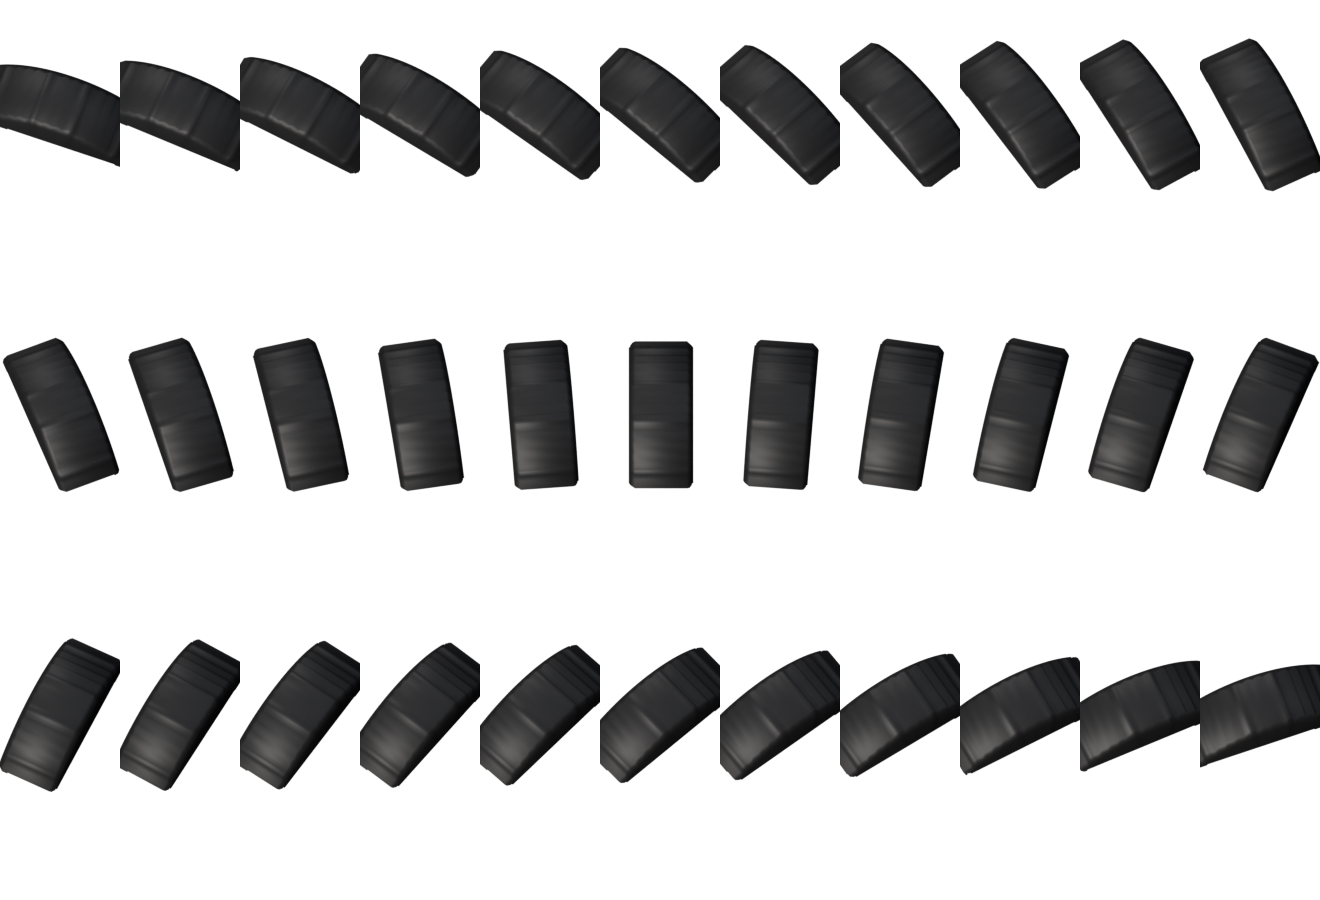
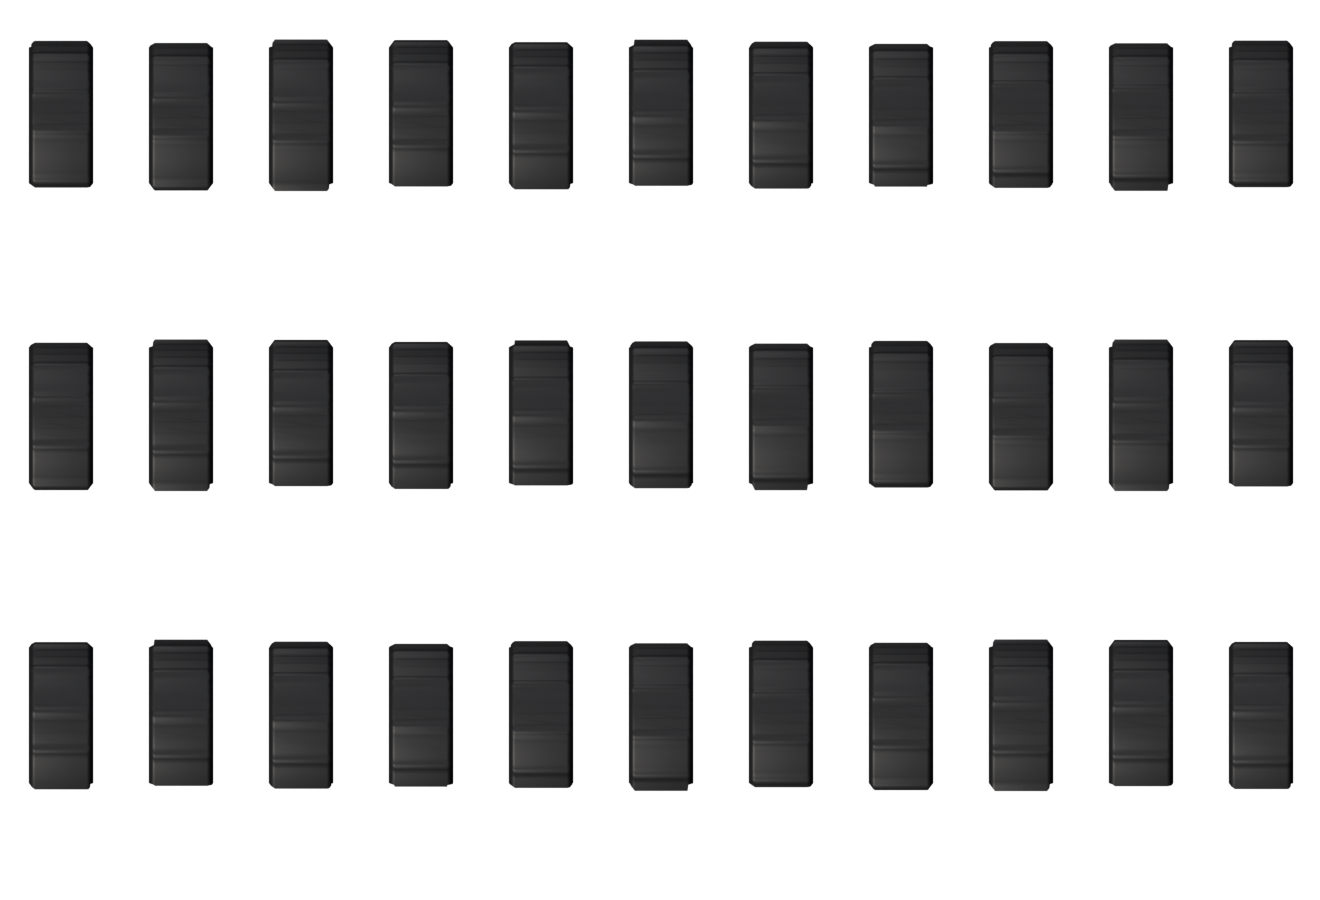
AT20V 1.0.5: the control wheel turns on its axle and springs back
The user reported that the control wheel "turns wrong and does not come back".
- The wheel's 33 frames were rendered with the spin applied in XYZ order after
  laying the lathe on its side, so the whole disc tipped sideways instead of
  rolling on its axle. scene.py now uses ZYX order (spin about the wheel's own
  axis first) and a ±40° travel: 2.5° per frame, under half a rib (6.4°), so the
  ribs never appear to roll backwards. New --wheel-only option renders just the
  wheel; only wheel.png and its range in ui.json change.
- Releasing the wheel now returns it to the centre in ~200 ms, like a pitch bend
  wheel; holding Alt on release leaves it where it is (manual EN/ES updated,
  including the drone recipe through VCA INITIAL GAIN).

Verified: athosttest on AT20V and AT20V FX (macOS and Windows) unchanged: the
only FAIL is the intentional Endless Drift drone; pluginval strictness 10
SUCCESS on macOS.

Development commit: 2fda1d9edd6cd4ea9f08568dafeecc0de907f77b

diff --git a/plugins/at20v/tools/blender/scene.py b/plugins/at20v/tools/blender/scene.py
@@ -23,6 +23,7 @@ OUT = os.path.abspath(arg("--out", "out"))
 MODE = arg("--mode", "all")
 SAMPLES = int(arg("--samples", "256"))
 FRAMES = int(arg("--frames", "128"))
+WHEEL_ONLY = arg("--wheel-only", "0") == "1"      # modo keys: sólo los cuadros de la rueda (out/keys/wheel_*.png)
 os.makedirs(OUT, exist_ok=True)
 
 THETA = math.radians(12.0)
@@ -547,7 +548,10 @@ def build_keyboard(pressed=False):
     wheel = mesh_obj("Wheel", lathe([(0.0, -16.0), (56.0, -16.0), (59.0, -13.0), (59.0, 13.0), (56.0, 16.0), (0.0, 16.0)], 128,
                                     radial=lambda t, r, z: r - (2.2 if (abs(z) < 13.5 and math.cos(t * 56) > 0.2) else 0.0)),
                      principled("WheelRubber", (0.022, 0.022, 0.024), 0.55))
-    wheel.rotation_euler = Euler((0, math.radians(90), 0), "XYZ")
+    # El torno deja el eje de la rueda en Z; se acuesta sobre U con Y = 90°. En orden ZYX el giro en Z se aplica
+    # primero: la rueda gira sobre su propio eje (en XYZ, girar en X la volcaba de costado).
+    wheel.rotation_mode = "ZYX"
+    wheel.rotation_euler = Euler((0, math.radians(90), 0), "ZYX")
     wheel.location = P(40, 149, 26 + 18 - 59)
     ring = mesh_obj("MswRing", lathe([(19.0, 26.0), (19.0, 29.0), (16.5, 30.0), (0.0, 30.0)], 64), MAT["nickel"])
     ring.location = P(40, 260, 0)
@@ -579,7 +583,7 @@ def mode_keys():
     os.makedirs(os.path.join(OUT, "keys"), exist_ok=True)
     meta = {}
     hulls = {}
-    for pressed in (False, True):
+    for pressed in ((False,) if WHEEL_ONLY else (False, True)):
         reset_scene(); materials(); add_lights()
         keys, wheel, cap = build_keyboard(pressed)
         _, w_u, h_u, rx, ry = key_frame()
@@ -595,7 +599,7 @@ def mode_keys():
                 c = world_to_camera_view(sc, cam, o.matrix_world @ v.co)
                 pts.append((round(c.x * rx, 1), round((1.0 - c.y) * ry, 1)))
             hulls.setdefault(n, {"black": isb, "pts": []})["pts"] += pts
-        render_to(os.path.join(OUT, "keys", "keys_down.png" if pressed else "keys_up.png"))
+        if not WHEEL_ONLY: render_to(os.path.join(OUT, "keys", "keys_down.png" if pressed else "keys_up.png"))
         if not pressed:
             meta.update(width=rx, height=ry, theta=math.degrees(KEY_THETA))
             # Rueda: filmstrip con todo lo demás como holdout.
@@ -614,12 +618,14 @@ def mode_keys():
             base_rot = wheel.rotation_euler.copy()
             # Recorte alrededor de la rueda con una cámara auxiliar del mismo encuadre: se renderiza
             # el cuadro completo y se recorta después (más simple y exacto).
-            meta["wheel"] = dict(cx=round(wc.x * rx, 1), cy=round((1.0 - wc.y) * ry, 1), frames=frames, range=70.0)
+            meta["wheel"] = dict(cx=round(wc.x * rx, 1), cy=round((1.0 - wc.y) * ry, 1), frames=frames, range=40.0)
             for f in range(frames):
-                a = -70.0 + 140.0 * f / (frames - 1)
-                wheel.rotation_euler = Euler((math.radians(a), math.radians(90), 0), "XYZ")
+                # ±40°: 2,5° por cuadro, menos de media estría (56 estrías = 6,4°), así el giro no se ve al revés.
+                a = -40.0 + 80.0 * f / (frames - 1)
+                wheel.rotation_euler = Euler((0, math.radians(90), math.radians(a)), "ZYX")
                 render_to(os.path.join(OUT, "keys", f"wheel_{f:03d}.png"))
             wheel.rotation_euler = base_rot
+            if WHEEL_ONLY: return
             # Pulsador apretado.
             for o in bpy.data.objects:
                 if o.type == "MESH": o.is_holdout = o.name not in ("MswCap",)

diff --git a/plugins/at20v/Source/ui/KeyboardView.h b/plugins/at20v/Source/ui/KeyboardView.h
@@ -80,7 +80,7 @@ public:
         const auto& A = Assets::get();
         const auto p2 = e.position * 2.0f;
         if (! A.switchCrop.isEmpty() && A.switchCrop.toFloat().expanded (6.0f).contains (p2)) { proc.momentary.store (true); repaint(); return; }
-        if (! A.wheelCrop.isEmpty() && A.wheelCrop.toFloat().contains (p2)) { draggingWheel = true; lastY = e.position.y; return; }
+        if (! A.wheelCrop.isEmpty() && A.wheelCrop.toFloat().contains (p2)) { draggingWheel = true; returning = false; lastY = e.position.y; return; }
         playAt (e.position);
     }
 
@@ -98,8 +98,11 @@ public:
         if (! proc.momentary.load()) playAt (e.position);   // glissando
     }
 
-    void mouseUp (const juce::MouseEvent&) override
+    void mouseUp (const juce::MouseEvent& e) override
     {
+        // La rueda vuelve sola al centro al soltarla, como una rueda de pitch bend; con Alt se queda donde quedó
+        // (para usarla como modulación fija, por ejemplo un drone por VCA INITIAL GAIN).
+        if (draggingWheel && ! e.mods.isAltDown()) returning = true;
         draggingWheel = false;
         if (proc.momentary.load()) { proc.momentary.store (false); repaint(); }
         releaseMouseNote();
@@ -156,6 +159,12 @@ private:
     void timerCallback() override
     {
         // Redibuja cuando cambia algo (teclas por MIDI externo, rueda por pitch bend, pulsador por sustain).
+        if (returning)
+        {
+            float v = proc.wheel.load() * 0.55f;                    // ~200 ms hasta el centro a 40 Hz
+            if (std::abs (v) < 0.01f) { v = 0.0f; returning = false; }
+            proc.wheel.store (v);
+        }
         uint64_t h = 0;
         for (int k = 0; k < 37; ++k) if (isDown (k)) h |= (uint64_t) 1 << k;
         const float w = proc.wheel.load(); const bool m = proc.momentary.load();
@@ -164,7 +173,7 @@ private:
 
     AT20VProcessor& proc;
     int octave = 0, mouseNote = -1, mouseKey = -1;
-    bool draggingWheel = false, shownMom = false;
+    bool draggingWheel = false, returning = false, shownMom = false;
     float lastY = 0.0f, shownWheel = 9.0f;
     uint64_t shownKeys = 0;
 };

diff --git a/plugins/at20v/docs/manual/es.md b/plugins/at20v/docs/manual/es.md
@@ -92,7 +92,7 @@ Cuatro LEDs rojos muestran la actividad: el LED del MG titila al ritmo del MG, e
 
 El teclado tiene 37 teclas, de do a do; en OCTAVE 0 la tecla más grave es la nota MIDI 36. Hacé clic en una tecla para tocarla y arrastrá sobre las teclas para hacer un glissando. A la izquierda:
 
-- La **rueda de control**: arrastrala hacia arriba o hacia abajo. Se engancha en su punto central cerca del medio, y con doble clic se centra.
+- La **rueda de control**: arrastrala hacia arriba o hacia abajo. Al soltarla vuelve sola al centro, como una rueda de pitch bend; si la soltás con Alt apretado, queda donde está. Con doble clic se centra.
 - El **pulsador momentáneo**: el botón redondo debajo de la rueda. Hacé clic y mantenelo para apretarlo.
 
 Como en el original, ninguno de los dos hace nada por sí solo: actúan sólo a través de sus jacks en la patchera, CONTROL WHEEL y MOMENTARY SWITCH.
@@ -197,7 +197,7 @@ El original usó dos circuitos de filtro a lo largo de su vida. Elegí uno con *
 
 El amplificador no tiene perilla. Su ganancia es la EG2 más la tensión en INITIAL GAIN, y deja de subir cuando la suma llega al nivel máximo. Sin nada patcheado, la EG2 sola le da forma a cada nota.
 
-> Para un drone que suene sin mantener una tecla, patcheá CONTROL WHEEL en VCA INITIAL GAIN y subí la rueda.
+> Para un drone que suene sin mantener una tecla, patcheá CONTROL WHEEL en VCA INITIAL GAIN, subí la rueda y soltala con Alt apretado para que quede arriba.
 
 ### ENVELOPE GENERATOR 1
 

diff --git a/plugins/at20v/docs/manual/en.md b/plugins/at20v/docs/manual/en.md
@@ -92,7 +92,7 @@ Four red LEDs show activity: the MG LED blinks at the MG rate, the LED between t
 
 The keyboard has 37 keys, C to C; at OCTAVE 0 the lowest key is MIDI note 36. Click a key to play it and drag across the keys for a glissando. To the left:
 
-- The **control wheel**: drag it up or down. It snaps to its center click near the middle, and a double-click centers it.
+- The **control wheel**: drag it up or down. When you let go it springs back to the center, like a pitch bend wheel; hold Alt as you let go and it stays where it is. A double-click centers it.
 - The **momentary switch**: the round button under the wheel. Click and hold it to press it.
 
 As on the original, neither does anything by itself: they act only through their jacks in the patch bay, CONTROL WHEEL and MOMENTARY SWITCH.
@@ -197,7 +197,7 @@ The original used two filter circuits over its life. Choose one with **FILTER** 
 
 The amplifier has no knob. Its gain is EG2 plus the voltage at INITIAL GAIN, and it stops rising when the sum reaches full level. With nothing patched, EG2 alone shapes every note.
 
-> For a drone that sounds without holding a key, patch CONTROL WHEEL into VCA INITIAL GAIN and push the wheel up.
+> For a drone that sounds without holding a key, patch CONTROL WHEEL into VCA INITIAL GAIN, push the wheel up and let go with Alt held so it stays up.
 
 ### ENVELOPE GENERATOR 1
 
